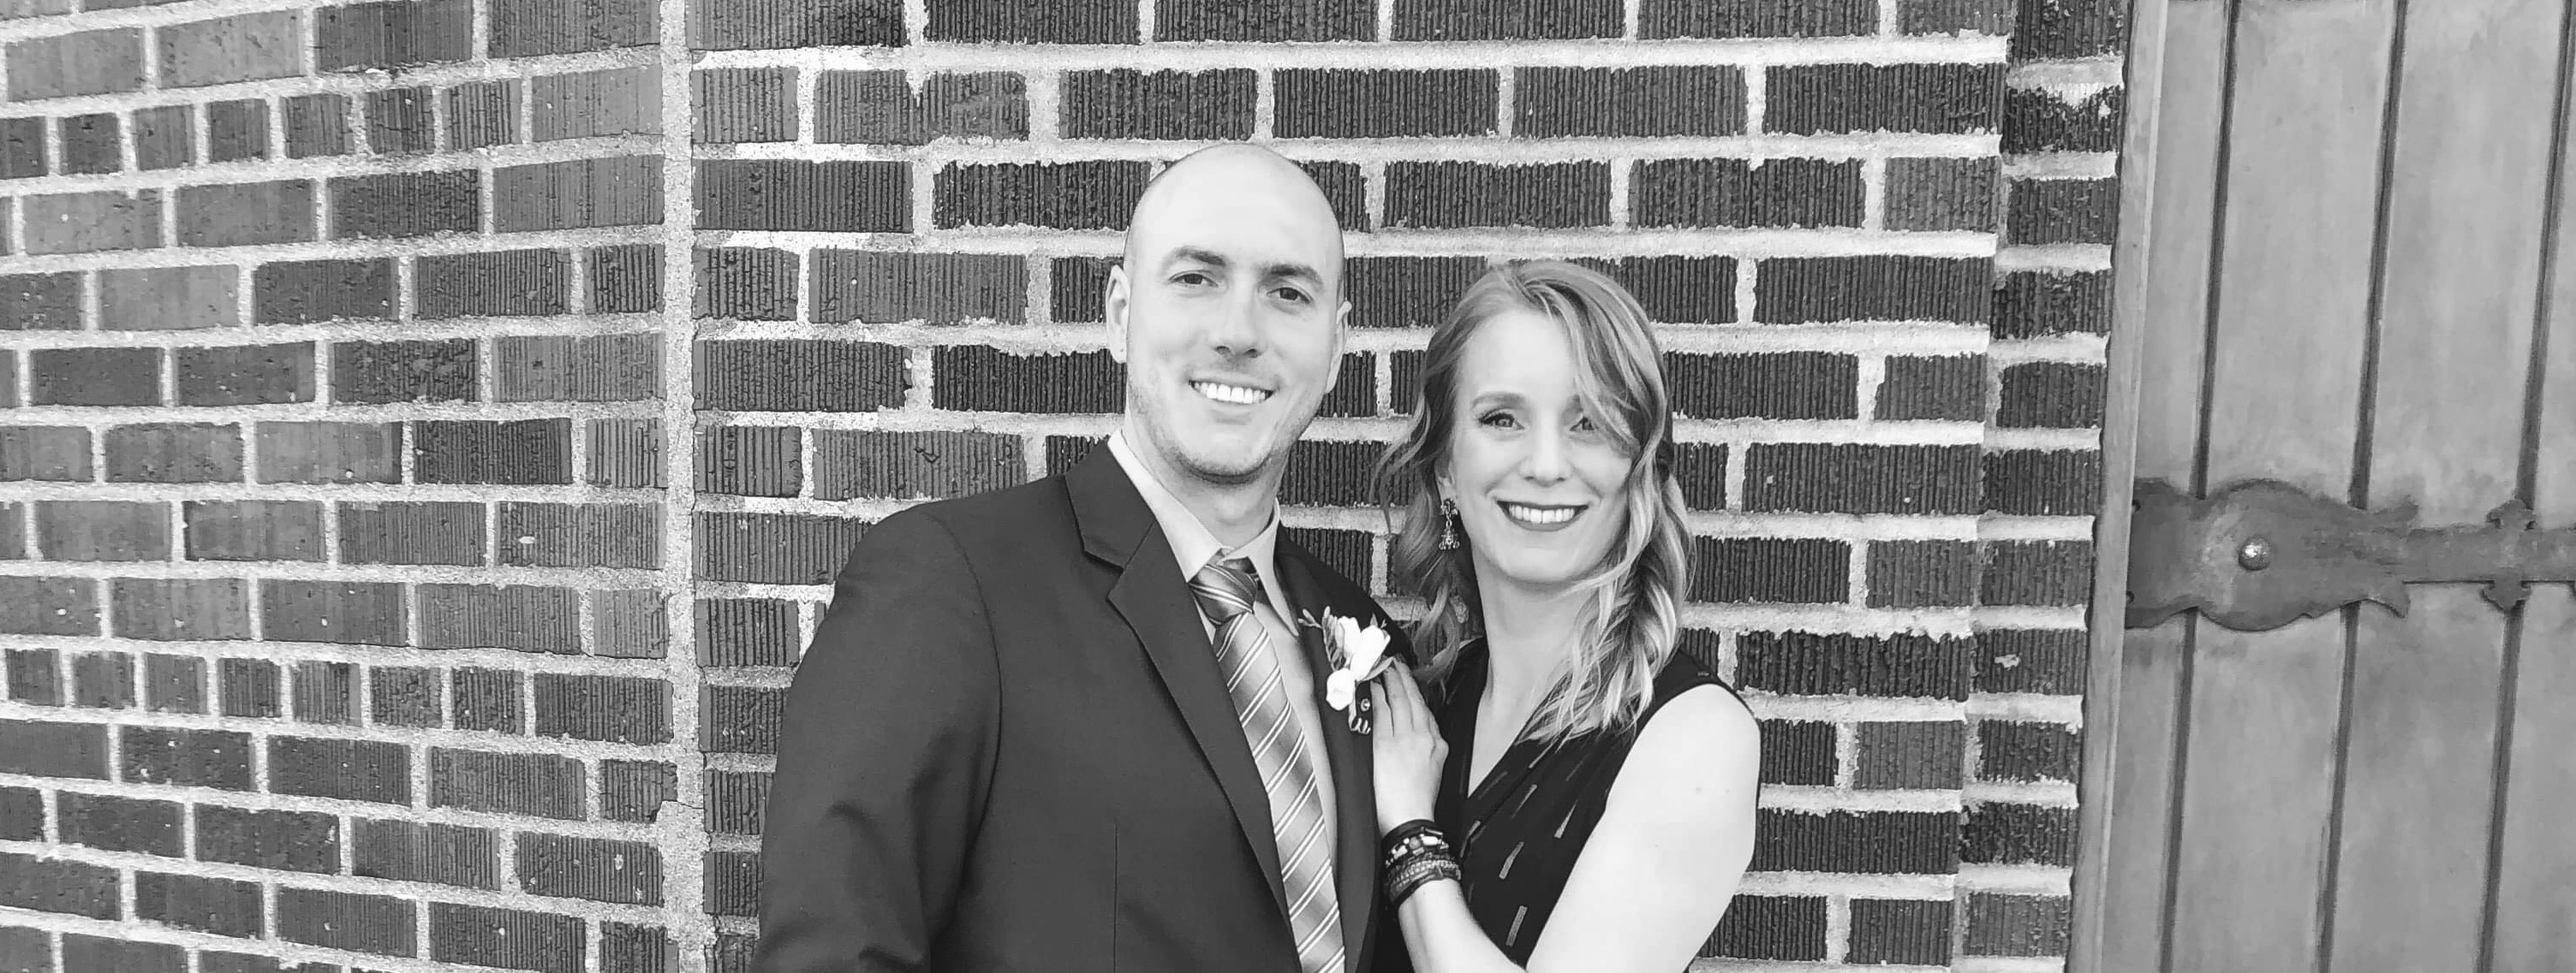
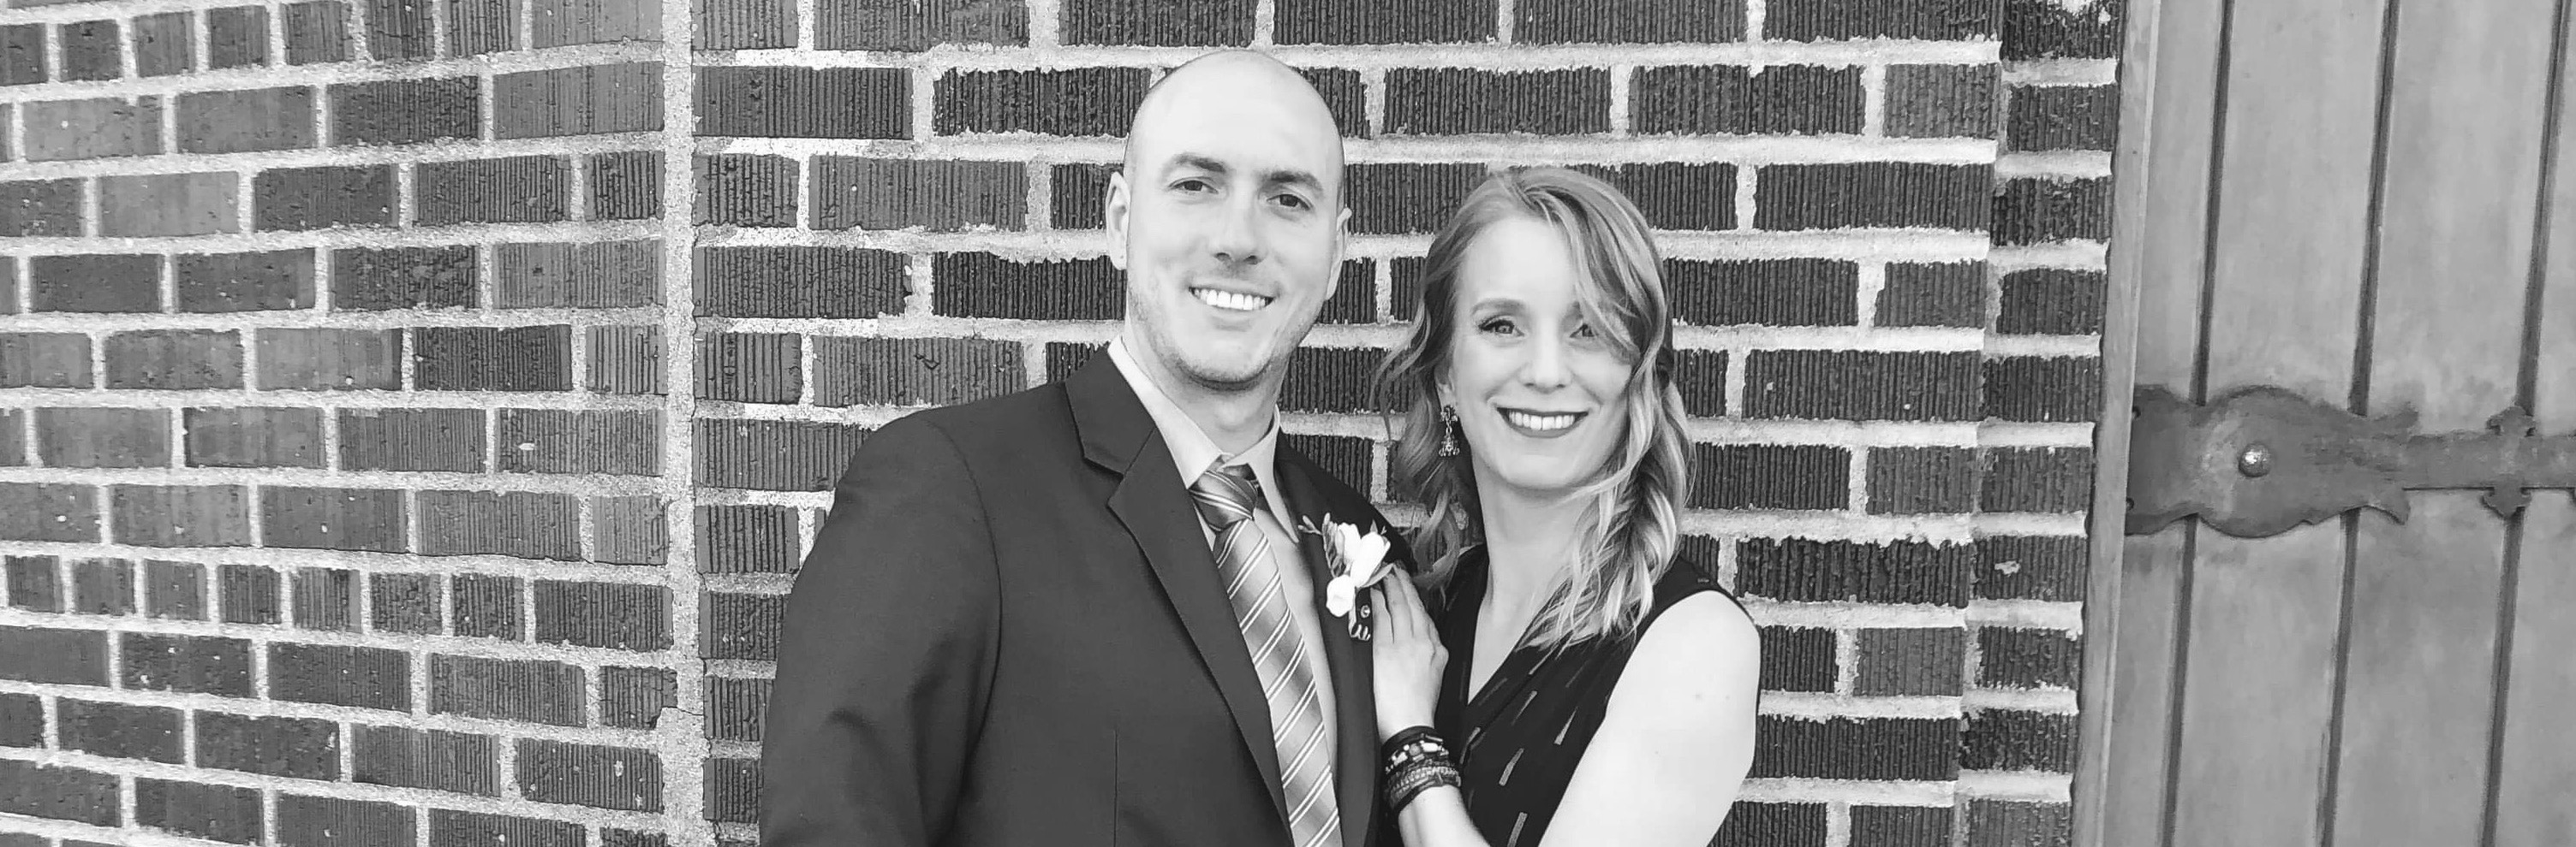
Split up CSS files and got the About Me hero image and scrolling working

diff --git a/about.html b/about.html
@@ -9,7 +9,8 @@
 <title>About Lucienne de Boer | Product owner & aspiring front-end developer</title>
 <link href="https://cdn.jsdelivr.net/npm/bootstrap@5.0.0-beta3/dist/css/bootstrap.min.css" rel="stylesheet"
     integrity="sha384-eOJMYsd53ii+scO/bJGFsiCZc+5NDVN2yr8+0RDqr0Ql0h+rP48ckxlpbzKgwra6" crossorigin="anonymous">
-<link rel="stylesheet" href="styles/portfolio.css">
+<link rel="stylesheet" href="styles/project.css">
+<link rel="stylesheet" href="styles/about.css">
 <link rel="preconnect" href="https://fonts.gstatic.com">
 <link href="https://fonts.googleapis.com/css2?family=Over+the+Rainbow&family=Poppins:wght@100;200;300&display=swap"
     rel="stylesheet">
@@ -49,11 +50,24 @@
         </div>
     </nav>
 
-    <div class="parallax-wrapper">
+<div class="wrapper">
+    <div class="panels fixed-panel">
+        <div class="image">
+            <div class="image-inner">
+                <img src="/images/IMG_0911 copy.jpg" />
+            </div>
+        </div>
     </div>
-
-    <div class="regular-wrapper">
+    <div class="panels scrollable-panel">
         <div class="content">
+            <h1>About Lucienne de Boer</h1>
+            <br />
+            <h1>About Lucienne de Boer</h1>
+            <br />
+            <h1>About Lucienne de Boer</h1>
+            <br />
+            <h1>About Lucienne de Boer</h1>
+            <br />
             <h1>About Lucienne de Boer</h1>
             <br />
             <h1>About Lucienne de Boer</h1>
@@ -66,5 +80,7 @@
             <br />
         </div>
     </div>
+</div>
+
 </body>
 </html>

diff --git a/styles/about.css b/styles/about.css
@@ -1,0 +1,63 @@
+html {
+  overflow: hidden;
+}
+
+.wrapper {
+  position: absolute;
+  width: 100%;
+  height: 100%;
+  overflow-y: scroll;
+}
+
+.image {
+  position: relative;
+  max-width: 100%;
+  height: auto;
+  padding-bottom: 40%;
+}
+
+.image-inner {
+  position: absolute;
+  top: 0;
+  left: 0;
+  width: 100%;
+  height: 100%;
+  z-index: 0;
+}
+
+.image img {
+  width: auto;
+  max-height: 100%;
+  margin: 0 auto;
+  display: block;
+  transform: translate(-50%, -50%);
+  top: 50%;
+  left: 50%;
+  position: relative;
+}
+
+.panels {
+  position: relative;
+  min-height: 100%;
+  width: 100%;
+  z-index: 1000;
+}
+
+.fixed-panel {
+  position: fixed;
+  top: 0;
+  z-index: -99;
+  background: #eee;
+  padding-top: 56px;
+}
+
+.scrollable-panel {
+  margin-top: 40%;
+  margin-bottom: 56px;
+}
+
+.content {
+  margin: 0 auto;
+  width: 100%;
+  background: white;
+}

diff --git a/styles/project.css b/styles/project.css
@@ -1,0 +1,46 @@
+:root {
+  --primary-color: #114e60;
+  --secondary-color: #f5cebe;
+  --light-color: #f4eee8;
+  --dark-color: #325288;
+  --heading-font: "Over the Rainbow", cursive;
+  --body-font: "Poppins", sans-serif;
+}
+
+body {
+  font-family: var(--body-font);
+}
+
+h1 {
+  font-family: var(--heading-font);
+}
+
+.primary-button {
+  background-color: var(--secondary-color);
+  padding: 13px 25px;
+  text-decoration: none;
+  border-radius: 4px;
+  color: black;
+}
+
+.secondary-button {
+  padding: 6px 15px;
+  text-decoration: none;
+  font-size: 13px;
+  font-weight: 300;
+  color: black;
+  border: 1px solid var(--secondary-color);
+  border-radius: 4px;
+}
+
+a:hover {
+  color: black;
+}
+
+.fa-home {
+  font-size: 25px;
+  color: var(--primary-color);
+}
+
+/*font-family: 'Over the Rainbow', cursive;
+font-family: 'Rambla', sans-serif; */

diff --git a/styles/homepage.css b/styles/homepage.css
@@ -1,0 +1,56 @@
+h1 {
+  font-family: var(--heading-font);
+  font-size: 68px;
+}
+
+.homepage-hero h2 {
+  margin: 15px 0 60px 0;
+  font-size: 20px;
+  font-weight: 100;
+}
+
+.homepage-hero {
+  padding: 80px 0;
+  background-color: var(--primary-color);
+  color: white;
+  text-align: center;
+}
+
+.subject-header {
+  font-family: var(--heading-font);
+  font-size: 26px;
+}
+
+.homepage-sections p {
+  font-weight: 200;
+  font-size: 15px;
+  line-height: 1.7;
+}
+
+.homepage-sections h2 {
+  font-size: 34px;
+}
+
+.section-item {
+  padding: 0 30px;
+  text-align: center;
+}
+.section-image {
+  max-width: 300px;
+}
+
+@media (max-width: 540px) {
+  h1 {
+    font-size: 45px;
+  }
+}
+
+@media (max-width: 767px) {
+  .second-image {
+    margin-top: 50px;
+  }
+  .homepage-sections {
+    padding-left: 0;
+    padding-right: 0;
+  }
+}

diff --git a/index.html b/index.html
@@ -8,7 +8,8 @@
     <title>Lucienne de Boer | Product owner & aspiring front-end developer</title>
     <link href="https://cdn.jsdelivr.net/npm/bootstrap@5.0.0-beta3/dist/css/bootstrap.min.css" rel="stylesheet"
         integrity="sha384-eOJMYsd53ii+scO/bJGFsiCZc+5NDVN2yr8+0RDqr0Ql0h+rP48ckxlpbzKgwra6" crossorigin="anonymous">
-    <link rel="stylesheet" href="styles/portfolio.css">
+    <link rel="stylesheet" href="styles/project.css">
+    <link rel="stylesheet" href="styles/homepage.css">
     <link rel="preconnect" href="https://fonts.gstatic.com">
     <link href="https://fonts.googleapis.com/css2?family=Over+the+Rainbow&family=Poppins:wght@100;200;300&display=swap"
         rel="stylesheet">
